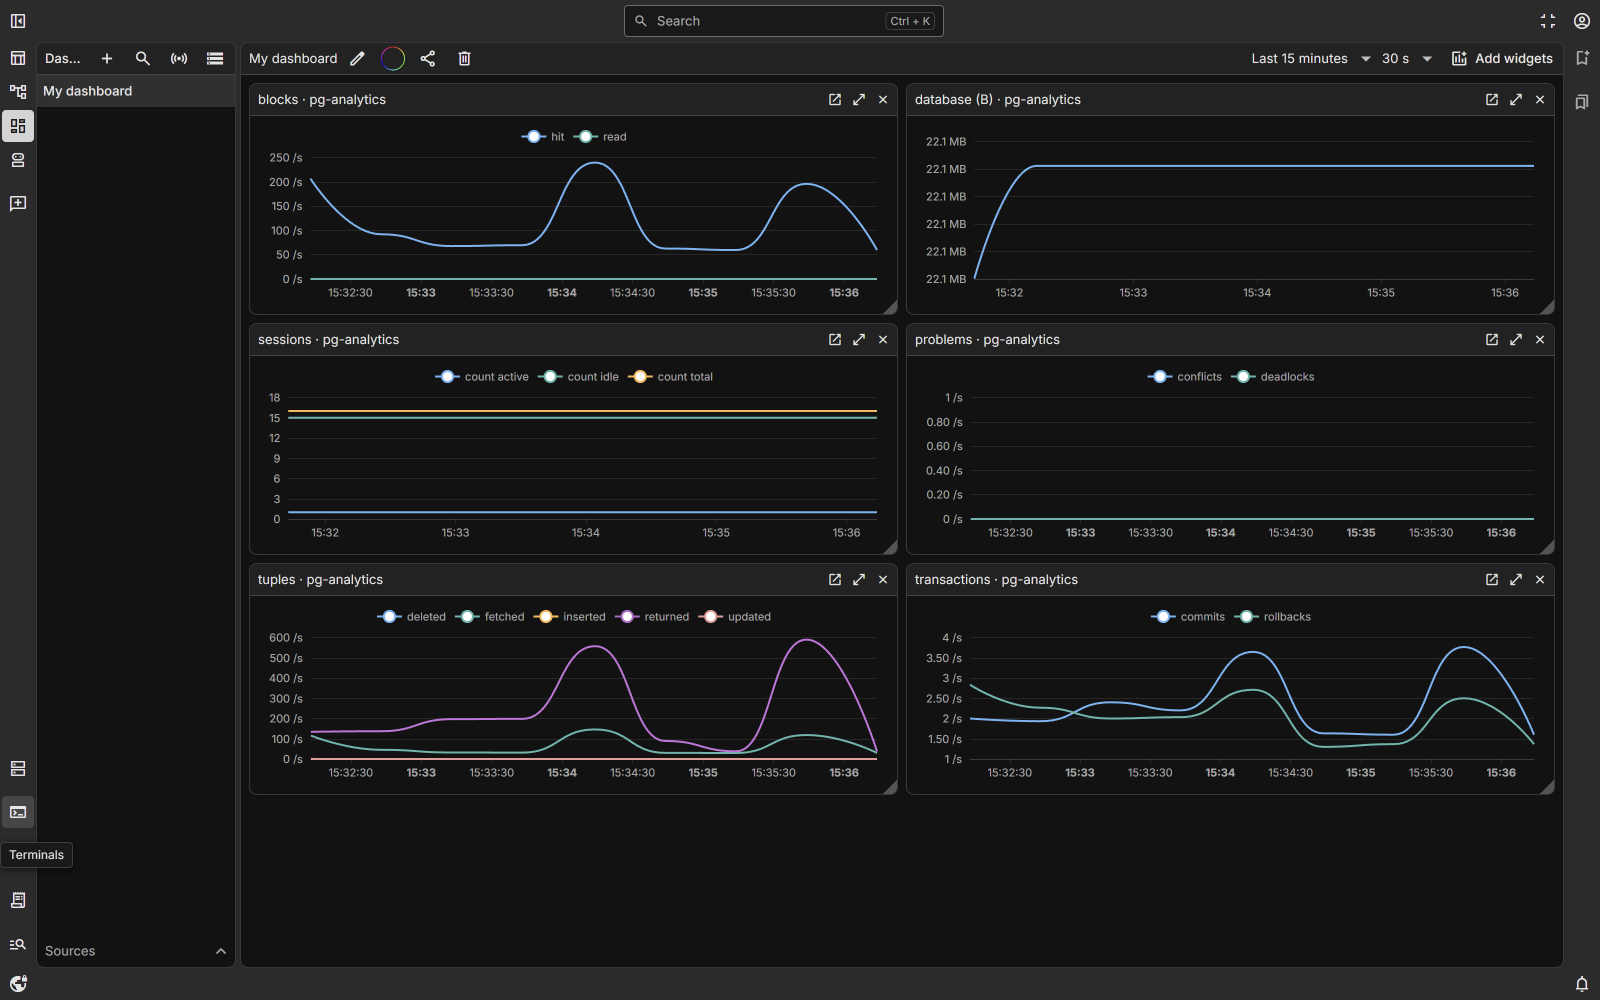
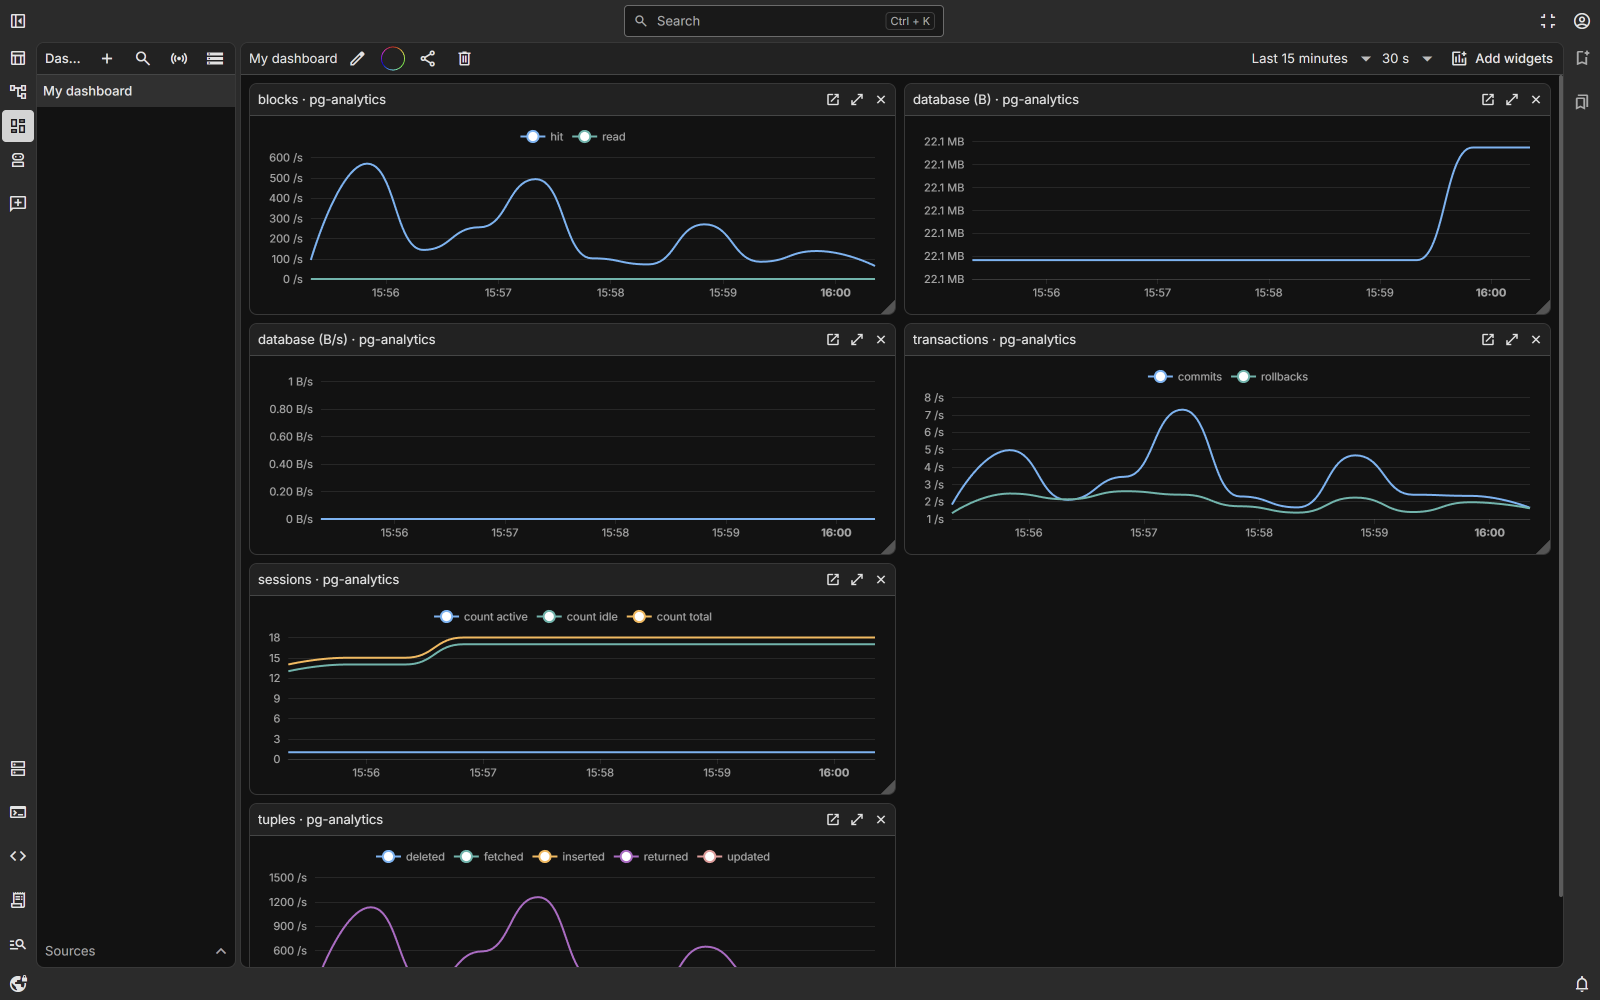
README: retaken overview and dashboards screenshots

diff --git a/README.md b/README.md
@@ -7,7 +7,7 @@ work to an AI agent that uses the same connections you do.
 DataPlayer runs on your own machine or server with Docker Compose. Credentials
 are encrypted at rest and never leave the backend.
 
-![The workspace: connections, a catalog, tabs of rows, a quick chat window, the server's log and the activity panel](docs/screenshots/overview.webp)
+![The workspace: connections, a catalog, tabs of rows, a quick chat answered by Gemini Nano in the browser, the server's log and the activity panel](docs/screenshots/overview.webp)
 
 | | |
 | --- | --- |
